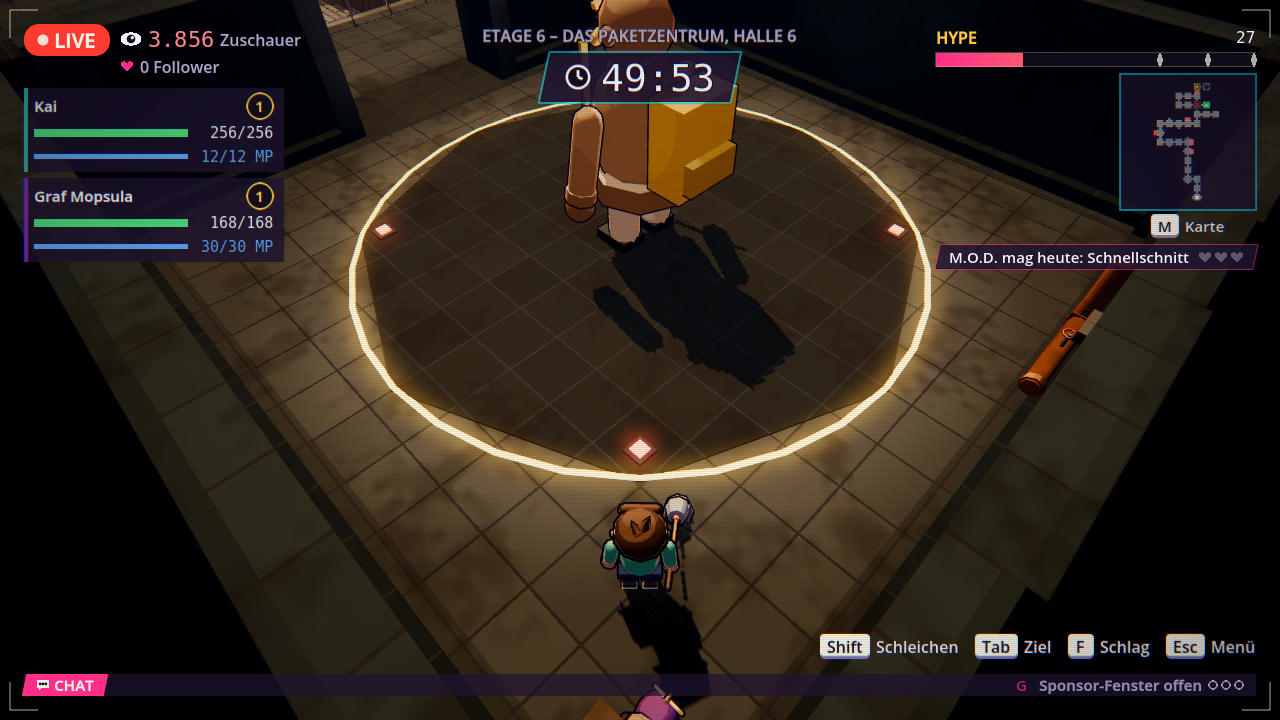
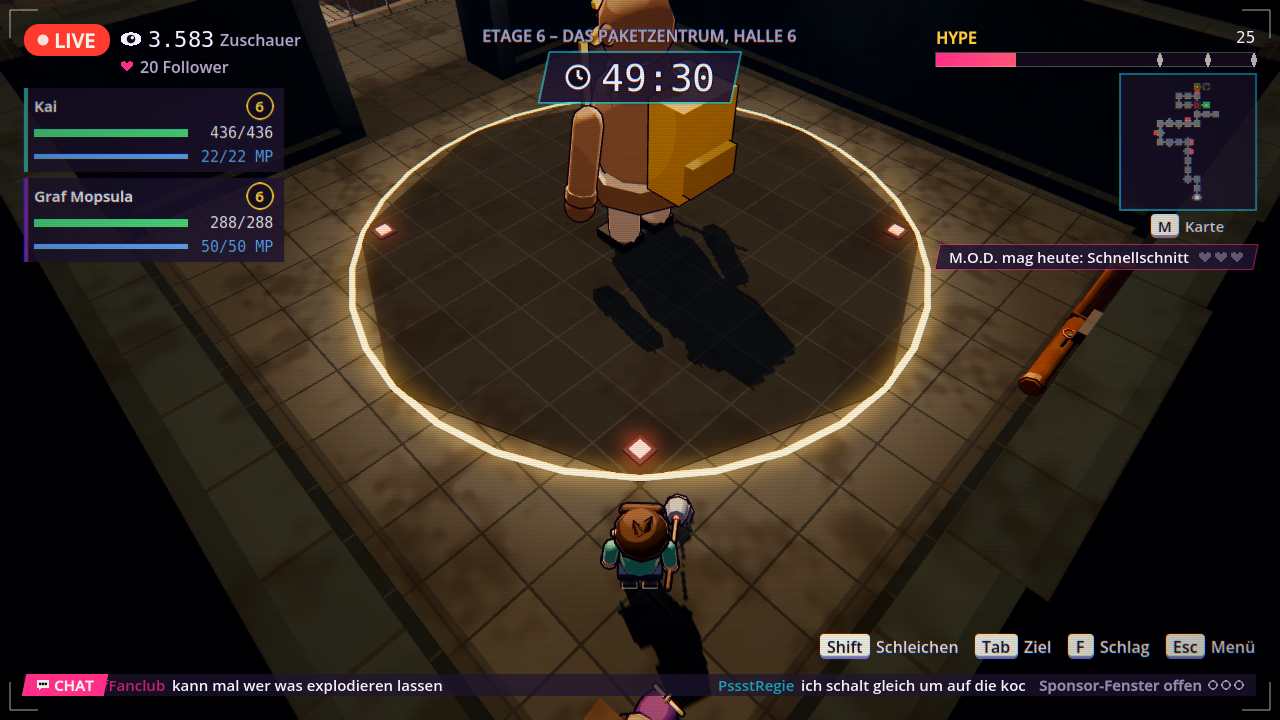
Give season groups the EXP shares of ST1-D at their band level
ST1-D (09 §8.2, D-6) wants a group worth a share of the level it
stands on and the colour of combat EXP read from the group's level;
it left both to ST1-C. EnemyLevels.apply now gives each group of a
season floor its share of LevelBand.exp_to_next at the group's level
(regular 4 %, show boss group 15 %, Revier-Boss 25 %, Etagenboss
50 %), split over its enemies by their data EXP with the integer rest
on the lead; HP, STR, MAG, DEF, RES and credits keep the level table.
LevelBand.group_level takes the state and reads the band level of the
beaten groups (EnemyLevels.result_level), so a figure inside the band
no longer sees floor 3-6 groups as green or grey. Before, a floor-2
group gave 156-259 EXP instead of 25. Without a season nothing
changes (09 C-23).

The capture recipes of the season floors drain M.O.D.'s queue after
the descents (the stairs now give EXP and level-up lines); the
screenshots 72-78 are retaken on the merged state (the party has the
stairs' EXP: level 2 on floor 2 to level 6 on floor 6). Docs: 09 C-8,
C-9, C-23 and the status texts, 02_TECH §0.8, README.

Claude-Session: https://claude.ai/code/session_01D9oMfhNaMTqJshuFDvRGKL

diff --git a/prime-time-dungeon/docs/02_TECH.md b/prime-time-dungeon/docs/02_TECH.md
@@ -557,39 +557,42 @@ Differenz (`color_name`, `diff_text`, `is_warning`; 07 CR-32 l), die Staffel-Bil
 Gegenprobe gegen einen echten Bot über eine ganze Staffel (ST1-I misst Stufen und Pensum mit dem Harness).
 
 **Stand ST1-C1 (2026-10-12, Branch `ptd/st1c1`): Generator v2, Kulissen, Etagen 2–6** (09 Kap. 3, Kap. 11.3 „Stand
-ST1-C1“, Entscheidungen C-1 … C-22). Der Generator v2 hängt an `FloorDef.has_zones()`, Stufen, Programmtüren und die
+ST1-C1“, Entscheidungen C-1 … C-23). Der Generator v2 hängt an `FloorDef.has_zones()`, Stufen, Programmtüren und die
 spielbaren Etagen 2–6 hängen an `state.season != null`; **kein `SIM_VERSION`-Sprung**, Save v2 unverändert, ohne Staffel
 bitgleich (`fullrun.sh` mit `--strategy=all`, `--hero=mopsula`, `--liga=1`, `--liga=2`: gleiche Ereigniszeilen und
-Statistiken; die Golden-Werte des Echtzeitkampfs unverändert). Neu sind `core/dungeon/zone_generator.gd` (`ZoneGenerator`)
-und `core/progression/enemy_levels.gd` (`EnemyLevels`); die ST0-Stubs `ThemeDef` und `validators/themes.gd` sind ersetzt.
-Schicht: `ZoneGenerator` nutzt wie `DungeonGenerator` nur `core/data`, `core/loot` und `core/progression` (`GameState`
-für die Programmtüren); was `core/rt` braucht (die Stufen-Tabelle), steht in `EnemyLevels` (`core/progression`, wie
-`BattleBridge`).
+Statistiken; die Golden-Werte des Echtzeitkampfs unverändert). Neu sind `core/dungeon/zone_generator.gd`
+(`ZoneGenerator`) und `core/progression/enemy_levels.gd` (`EnemyLevels`); die ST0-Stubs `ThemeDef` und
+`validators/themes.gd` sind ersetzt. Schicht: `ZoneGenerator` nutzt wie `DungeonGenerator` nur `core/data`, `core/loot`
+und `core/progression` (`GameState` für die Programmtüren); was `core/rt` braucht (die Stufen-Tabelle), steht in
+`EnemyLevels` (`core/progression`, wie `BattleBridge`), das die EP-Tabelle und die EP-Anteile aus `LevelBand` liest
+(`core/season`, wie `BattleBridge` seit ST1-D).
 
 | Teil | API |
 |---|---|
 | `ZoneGenerator` (rein) | `generate(def, floor_seed) -> FloorLayout` (Durchgang k mit `SeedUtil.derive(floor_seed, "zone_gen_f<N>", k)`, die Truhen mit `"chest_table"` wie `DungeonGenerator`; bis `MAX_ATTEMPTS` 40 Durchgänge, je Viertel `QUARTER_TRIES` 8 Versuche mit Rückbau), `check(layout, def) -> PackedStringArray` (09 §3.6 Nr. 5: jede ungeschützte Zelle bei geschlossenen Toren erreichbar, jedes Viertel, jede Fundstelle; Start → Revier-Boss ohne Schlüssel und nie durch den Etagenboss, Revier-Boss → Treppe nur mit dem Schlüsseltor, die Treppe nie ohne; Treppe, Revier- und Etagenboss im letzten Viertel, der Etagenboss abseits des Pfads; ein Safe Room je Viertel; höchstens fünf Programmtüren, nummeriert, Sackgassen abseits des Pfads mit Tor `daily:<n>` und Event; keine Gruppe in Treppe oder Programmraum; Stufen im Band bis Bandende + 2; die Gruppe des Show-Bosses; 1–2 Schleifen je Viertel; die Viertel als Kette), `key_item(def)` (`itm_key_f<N>`), `programme_requirement(n)` (`"daily:<n>"`), `programme_number(requires)`, `danger_at(layout, cell)`, `band_middle(def)`, `open_programme_doors(state, data)` |
 | `FloorLayout` (additiv) | `zones[id]` += `order`, `danger` (`calm` \| `restless` \| `dangerous`), `style`; `nodes` [{id `f<N>_n<k>`, node, cell, offset}], `programme` [{n, cell, key, event, zone, q}]; `to_debug_string` nennt Viertel, Programm und Fundstellen nur auf Generator-v2-Etagen (Etage 1 unverändert); `EnemySpawn.level` (0 = Datenstufen; `to_dict` nur > 0) |
-| `EnemyLevels` (rein) | `enemy_level(state, data, group_id, layout = null)` (Stufe der Gruppe im Layout, ein Kampf ohne Gruppe die Bandmitte; 0 ohne Staffel oder ohne Band und Viertel), `level_cap(data)` (`Balance.LEVEL_CAP` ohne `exp_table`, sonst `RtBalance.ENEMY_LEVEL_MAX`), `factor_pm(bal, level, def_level)`, `apply(setup, state, data, bal)` — der Haken in `BattleBridge.make_rt_setup` vor den RtMods: `RtUnit.level`, HP, STR, MAG, DEF, RES, EP, Credits × Faktor |
+| `EnemyLevels` (rein) | `enemy_level(state, data, group_id, layout = null)` (Stufe der Gruppe im Layout, ein Kampf ohne Gruppe die Bandmitte; 0 ohne Staffel oder ohne Band und Viertel), `result_level(state, data, result)` (die höchste Stufe der geschlagenen Gruppen, für die Farbe der Kampf-EP), `level_cap(data)` (`Balance.LEVEL_CAP` ohne `exp_table`, sonst `RtBalance.ENEMY_LEVEL_MAX`), `factor_pm(bal, level, def_level)`, `exp_share_pm(def, enc_id)` (`LevelBand.SHARE_*_PM`: Etagenboss, Revier-Boss, Show-Boss, Gruppe), `group_exp(state, data, level, share_pm)`, `apply(setup, state, data, bal)` — der Haken in `BattleBridge.make_rt_setup` vor den RtMods: `RtUnit.level`, HP, STR, MAG, DEF, RES, Credits × Faktor; die EP der Gruppe = ihr Anteil (09 C-23), nach Daten-EP auf ihre Gegner verteilt |
 | `RtBalance` (07 CR-32 d) | `ENEMY_LEVEL_PM` in `DEFAULTS` (`{"1": 1000, …, "52": 8650}`, 1 000 + 150 × (Stufe − 1)), `RANGES` (1 000–20 000), `validate` (Stufe 1 = 1 000, steigend), `ENEMY_LEVEL_KEY`, `ENEMY_LEVEL_MAX` (52), `ENEMY_LEVEL_BASE_PM`, `enemy_level_pm(level)` (geklemmt 1–52); `data/rt_balance.json` und `tests/fixtures/rt_min/rt_balance.json` tragen die Tabelle. Sonst nichts in `core/rt/**` und `scenes/combat/**` |
 | Defs | `ThemeDef`: `id`, `name`, `floors`, `art` (Kunst-Thema, Standard `metro`), `program` [{id `daily_…`, name}], `point_name(id)`, `ThemeDef.art_of(def, data)` (das Kunst-Thema einer Etage: `theme` selbst oder `art` ihrer Kulisse); `FloorDef.season_only()` (Etage einer Kulisse), `playable_in(season)` |
 | Validatoren | `validators/themes.gd`: Name, `art` ∈ `THEMES`, Etagen 1–18 je einmal, Programmpunkte `^daily_[a-z0-9_]+$` über alle Kulissen eindeutig, Name 1–40 Zeichen. `validators/floor_season.gd` (Viertel-Schema für den Generator v2): `events` [{type ∈ `ZoneGenerator.EVENT_TYPES`, params wie die Etagen-Events}], `spots` (0–5, je Etage ≤ 5, nur mit Event-Vorlagen), `nodes` (`nod_` aus `professions.json → nodes`; Tabellen ohne diese Liste bleiben ungeprüft), `safe` {name, theme ∈ `SAFE_ROOM_THEMES`}, `style` (Ausstattung des Kunst-Themas: `metro` → platform \| sewer \| cellar \| track9, `mall` → mall); `safe_rooms` = Zahl der Viertel; der Schlüssel `itm_key_f<N>` (Typ `key`) fällt vom Anführer des Revier-Bosses; Event-Referenzen auf Gegenstände, Boxen und reguläre Begegnungen der Etage |
-| Haken (je markiert) | `DungeonGenerator.generate` (eine Zeile: Viertel → `ZoneGenerator`); `BattleBridge.make_rt_setup` (Kunst-Thema über `ThemeDef.art_of`, `EnemyLevels.apply`); `SeasonRules._sync_daily` (`open_programme_doors`); `Game.continue_after_summary` und `TitleFlow.load_and_route` (`playable_in`); `Game.season_debug_descend()` (Debug und Werkzeuge: `descend` + `floor` ohne Etagen-Bilanz); `boot.gd` `--floor`; `FloorBuilder.theme_id()` (`ThemeDef.art_of`) und `spec_for` (`RoomSpec.style` je Viertel, `RoomSpec.stage` der Bossräume einer Kulisse); `RoomSpec.style`, `stage`, `STAGE_PLAIN`; `RoomBuilder._stage()` (Bühne); `GateInteractable` (Programmtür: Hinweis, hebt sich, sobald `FloorRun.opened_gates` ihren Schlüssel hat) |
+| Haken (je markiert) | `DungeonGenerator.generate` (eine Zeile: Viertel → `ZoneGenerator`); `BattleBridge.make_rt_setup` (Kunst-Thema über `ThemeDef.art_of`, `EnemyLevels.apply`); `LevelBand.group_level` (mit dem Zustand aus `combat_exp`: `EnemyLevels.result_level`, ST1-D-Datei); `SeasonRules._sync_daily` (`open_programme_doors`); `Game.continue_after_summary` und `TitleFlow.load_and_route` (`playable_in`); `Game.season_debug_descend()` (Debug und Werkzeuge: `descend` + `floor` ohne Etagen-Bilanz); `boot.gd` `--floor`; `FloorBuilder.theme_id()` (`ThemeDef.art_of`) und `spec_for` (`RoomSpec.style` je Viertel, `RoomSpec.stage` der Bossräume einer Kulisse); `RoomSpec.style`, `stage`, `STAGE_PLAIN`; `RoomBuilder._stage()` (Bühne); `GateInteractable` (Programmtür: Hinweis, hebt sich, sobald `FloorRun.opened_gates` ihren Schlüssel hat) |
 | Daten | `themes.json` (drei Kulissen), `floors.json` (`floor_1` += `level_band` [1, 7]; `floor_2` vervollständigt; `floor_3` … `floor_6`), `enemies.json` (+20; `rt` für die drei Platzhalter von Etage 2), `skills.json` (+69 umbenannte Bausätze), `items.json` (+5 Schlüssel, +13 Ausrüstung), `lootboxes.json` (`f3`, `f4`, Seltenes in `f2`), `mod_lines.json` (+24 `boss_intro`/`boss_phase` hinter dem Staffel-Anker) |
 | Werkzeuge | `tests/capture.gd --season-floor=<n>` und die Rezepte `season_q<k>`, `season_qb`, `season_fb`, `season_door`, `season_gate`, `season_safe`, `season_map`; `tools/perf.sh --only=season` (Aufbau je Etage gegen das Erkundungs-Budget, jede Zelle × 4 Richtungen); Tests `test_09_zone_generator`, `test_09_floors` |
 
 **Für die anderen Pakete:** ST1-C2 — die Etagen 7–18 sind Daten für denselben Generator; offen sind der Boss-Baukasten,
-Kulissenwände auf Generator-v2-Etagen (`Secrets` liest nur `FloorDef.layout`), `item_level` und das Viertel-Streaming;
-ST1-D — mit `party.json → exp_table` hebt `EnemyLevels.level_cap` den Deckel 10 von selbst; Farbe und Differenz der
-Plakette lesen `RtUnit.level` (Kampf) und `EnemySpawn.level` (Erkundung); ST1-E — die Fundstellen in `FloorLayout.nodes`;
-ST1-G — die Gefahr je Viertel (`ZoneGenerator.danger_at`); ST1-H — der Marker „NEU“ der Programmpunkte
-(`FloorLayout.programme`, `ThemeDef.point_name`); ST1-I — der Full-Run-Bot braucht eine Wegplanung auf `FloorLayout`
-(Revier-Boss → Schlüssel → Tor → Treppe, Programmtüren, Safe Room je Viertel) und `--season=ssn_basis --tempo=binge
---floor=<n>`. **Leistung** (`PERFORMANCE.md` §3.9): jede Darstellungsgröße der Etagen 2–6 im Budget §12.1; der Bau der
-ganzen Etage 6 (48 Räume) warm 408 ms im Median (Budget 500 ms). Dafür legt `FloorBuilder.build_rooms` die Türstürze in den
-Etagen-Körper, bevor er in die Welt kommt (§4.10 dort: ein Box-Zusatz in der Welt baut unter Jolt die ganze Form neu).
-**Offen:** die Aufbauzeit auf Mobilgeräten (gemessen nur am PC); die Bühne der Bossräume ist ein Platzhalter bis zu den
-Raumteilen je Kulisse (03_ART, 09 CR-28).
+Kulissenwände auf Generator-v2-Etagen (`Secrets` liest nur `FloorDef.layout`), `item_level` (dann auch im Aufholpaket
+von ST1-D) und das Viertel-Streaming; ST1-D (gemergt) — die Bänder gelten voll, die Gruppen geben die Anteile
+`LevelBand.SHARE_*_PM` und `group_level` kennt ihre Bandstufe (09 C-23); offen ist die Oberfläche des Recalls auf Etage
+3 (Spezies und Klasse, heute nur `Game.choose_casting`); ST1-E — die Fundstellen in `FloorLayout.nodes`; ST1-G — die
+Gefahr je Viertel (`ZoneGenerator.danger_at`); ST1-H — Farbe und Differenz der Plakette lesen `RtUnit.level` (Kampf) und
+`EnemySpawn.level` (Erkundung), der Marker „NEU“ der Programmpunkte (`FloorLayout.programme`, `ThemeDef.point_name`);
+ST1-I — der Full-Run-Bot braucht eine Wegplanung auf `FloorLayout` (Revier-Boss → Schlüssel → Tor → Treppe,
+Programmtüren, Safe Room je Viertel) und `--season=ssn_basis --tempo=binge --floor=<n>`. **Leistung** (`PERFORMANCE.md`
+§3.9): jede Darstellungsgröße der Etagen 2–6 im Budget §12.1; der Bau der ganzen Etage 6 (48 Räume) warm 408 ms im
+Median (Budget 500 ms). Dafür legt `FloorBuilder.build_rooms` die Türstürze in den Etagen-Körper, bevor er in die Welt
+kommt (§4.10 dort: ein Box-Zusatz in der Welt baut unter Jolt die ganze Form neu). **Offen:** die Aufbauzeit auf
+Mobilgeräten (gemessen nur am PC); die Bühne der Bossräume ist ein Platzhalter bis zu den Raumteilen je Kulisse (03_ART,
+09 CR-28).
 
 ---
 

diff --git a/prime-time-dungeon/README.md b/prime-time-dungeon/README.md
@@ -79,8 +79,9 @@ Prüfwerkzeuge (`tools/`).
 - Die Kampagne endet nach Etage 1: Wer abgestiegen ist, landet nach „Fortsetzen“ im Abspann. Die Etagen 2–6 gehören den
   **Staffeln** (09, Stand ST1-C1; nur Debug-Builds, `--season`, Abschnitt 6): die Passage Ewiger Rabatt, Der Fundus und
   Das Paketzentrum (Hallen 4–6) — prozedural in Vierteln (Generator v2) mit Schlüsseltor vor der Treppe, Revier- und
-  Etagenbossen, einem Safe Room je Viertel und fünf Programmtüren, die das Tagesprogramm öffnet; die Gegner wachsen mit
-  dem Stufen-Band der Etage. Eine Basis-Staffel läuft von Etage 1 bis zum Finale auf Etage 6.
+  Etagenbossen, einem Safe Room je Viertel und fünf Programmtüren, die das Tagesprogramm öffnet; die Gegner stehen auf
+  den Stufen-Bändern der Etagen (7–10 auf Etage 2 bis 19–22 auf Etage 6) und geben die EP-Anteile der Staffel-Stufen.
+  Eine Basis-Staffel läuft von Etage 1 bis zum Finale auf Etage 6.
 - 3 Speicherslots (JSON in `user://saves/`), Einstellungen, Pausemenü, Touch-Steuerung.
 - **M.O.D.-Marotten & Unterhosen-Liga** (06 Kap. 4): M.O.D. verrät je Etage, was sie heute mag (Show-Wetten mit Herzen,
   Fanpost-Paket bei drei Treffern); wer ohne Rüstung & ohne Accessoire kämpft, spielt in der Liga und bekommt mehr Hype und
@@ -400,7 +401,7 @@ Argumente stehen nach `--` (CLI) bzw. in den Main Run Args (Editor). Quelle: `sc
 | `--mode=net\|no_net` | mit `--season`: Mit Netz (Rettung, Sanitäter) oder Ohne Netz (ab Etage 2 ein Leben) — hier ohne Freischaltung |
 | `--speed=<n>` | mit `--season`, Zeitraffer: Staffelsekunden je Sekunde Wanduhr (1–10080; `--speed=1440`: ein Tag je Minute) |
 | `--slot=<1-3>`, `--hero=kai\|mopsula`, `--air=HH:MM` | mit `--season`: Spielstand-Slot, Held:in, eigene Sendezeit (Standard: die der Vorlage, 20:00 Ortszeit) |
-| `--floor=<n>` | mit `--season` (ST1-C1): nimmt gleich nach dem Start die Treppen bis Etage n (aufgezeichnete Abstiege ohne Etagen-Bilanz; die Treppenregel gilt — Am Stück jede Etage, im Kalender zu Beginn bis Etage 3). Zum Ansehen der Etagen, nicht für die Balance: die Gruppe bleibt auf Stufe 1 |
+| `--floor=<n>` | mit `--season` (ST1-C1): nimmt gleich nach dem Start die Treppen bis Etage n (aufgezeichnete Abstiege ohne Etagen-Bilanz; die Treppenregel gilt — Am Stück jede Etage, im Kalender zu Beginn bis Etage 3). Zum Ansehen der Etagen, nicht für die Balance: ohne Kämpfe hat die Gruppe nur die Abschluss-EP der Treppen (ST1-D; auf Etage n etwa Stufe n), weit unter dem Band der Etage |
 
 Beispiel: `godot --path prime-time-dungeon/game -- --autoplay=full --strategy=typical --pace=human`
 Staffel (Debug): `godot --path prime-time-dungeon/game -- --season=ssn_basis --tempo=calendar --speed=1440`
@@ -505,10 +506,10 @@ Systeme) > 01_GDD / 02_TECH / 03_ART / 05 (je nach Thema) > 04**.
 
 Alle Bilder stammen aus dem Spiel selbst (Compatibility-Renderer unter Xvfb, 1280 × 720; Bilder 59, 63, 70, 71 und 78 im
 Handy-Format 2400 × 1080 und Bild 26 im Handy-Format 1600 × 720, alle mit Touch-Steuerung). Die Staffel-Bilder 72–78
-zeigen eine Basis-Staffel, die mit `--season-floor` direkt auf die Etage gestiegen ist (die Gruppe steht noch auf
-Stufe 1). Die Kampfbilder zeigen den Echtzeitkampf, seit R5b-2b den einzigen Kampf der Kampagne; die Bilder des früheren
-Rundenkampfs (08–12, 18, 22, 28) liegen als Archiv in `docs/screenshots/` (die CTB-Kampfszene, die sie erzeugte, ist
-gelöscht).
+zeigen eine Basis-Staffel, die mit `--season-floor` direkt auf die Etage gestiegen ist (ohne Kämpfe: die Gruppe hat nur
+die Abschluss-EP der Treppen, Stufe 2 auf Etage 2 bis Stufe 6 auf Etage 6). Die Kampfbilder zeigen den Echtzeitkampf, seit
+R5b-2b den einzigen Kampf der Kampagne; die Bilder des früheren Rundenkampfs (08–12, 18, 22, 28) liegen als Archiv in
+`docs/screenshots/` (die CTB-Kampfszene, die sie erzeugte, ist gelöscht).
 
 | | |
 |---|---|
